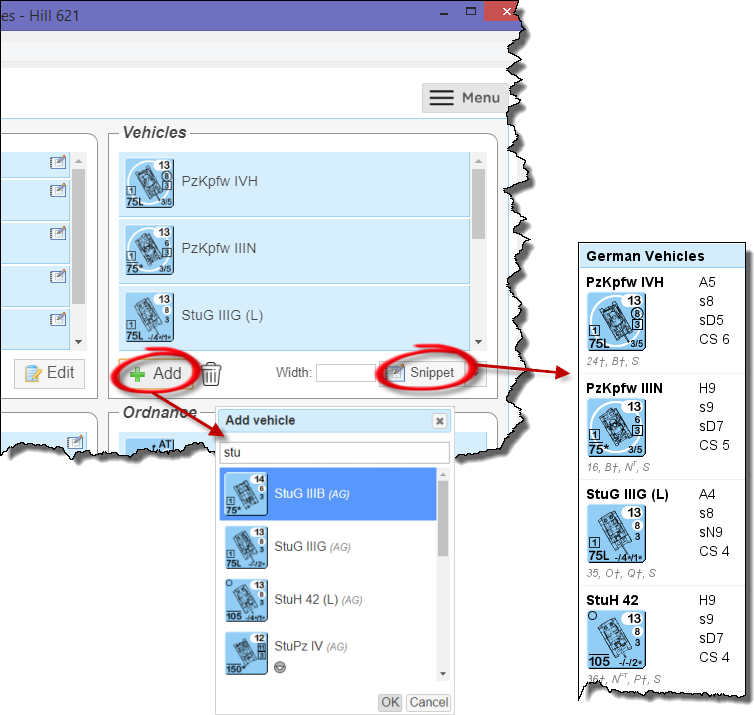
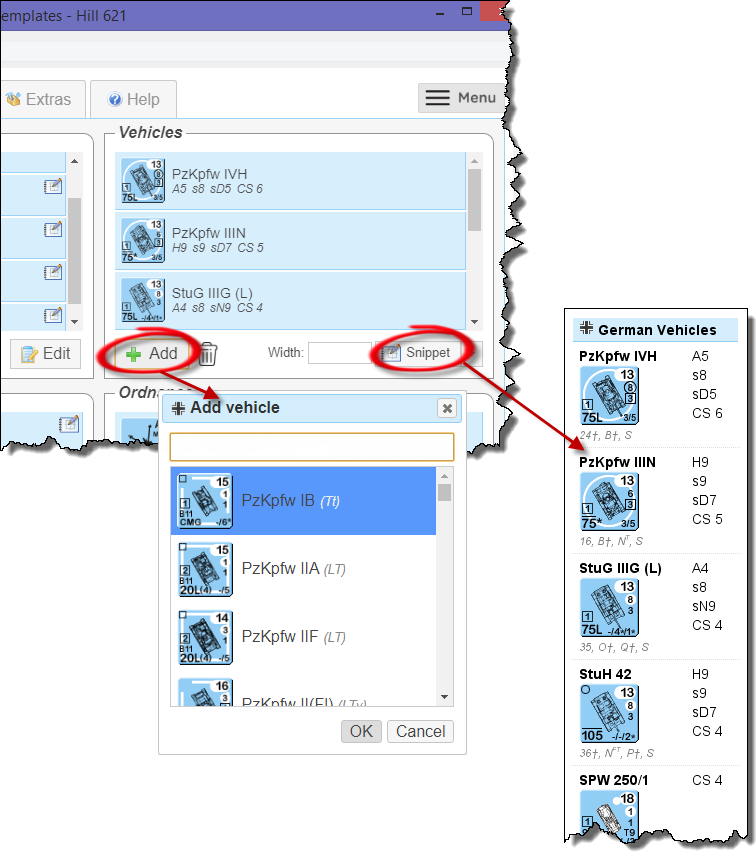
Updated the help.

diff --git a/vasl_templates/webapp/static/help/index.html b/vasl_templates/webapp/static/help/index.html
@@ -143,6 +143,7 @@ Once they're all in, click on the <em>Snippet</em> button to get a nicely format
 <p> <img src="images/ob_vehicles.png" class="preview" style="width:20em;float:right;">
 Adding each vehicle and ordnance for each player is just a matter of selecting them from a list, and the generated HTML snippet will produce a table of information for each one (see right). Very handy if you have a menagerie of armor and you're, say, looking for something that can fire Smoke.
 <p> The scenario date is taken into account when generating these tables e.g. APCR for the Pz IVH is A5<sup>2</sup>, but since the program knows the scenario is set in 1944, it just shows A5. Had the scenario been set in 1941, it wouldn't be shown at all.
+<p> Double-click on an entry to make changes to it e.g. because an SSR changes its capabilities, or you'd like to add a note.
 <br clear="all">
 
 <p> <img src="images/ob_setup.png" class="preview" style="width:15em;float:left;">
@@ -153,6 +154,11 @@ We can also add ad-hoc notes describing where and how units should setup.
 <p> <img src="images/pf.png" class="preview" style="width:15em;float:right;">
 Finally, if special support weapons such as PF and BAZ are in play, snippets are available with information for them, and as with vehicles/ordnance, they are date-aware and update themselves accordingly.
 
+<h2> Extra templates </h2>
+
+<p> <img src="images/extras-templates.png" class="preview" style="width:15em;float:right;">
+<p> Extra templates are also available to generate ad-hoc snippets e.g. to keep track of how many PF shots you have left, or to generate a shaded box that can be inserted behind the Turn Track to indicate an LV Hindrance.
+
 <h2> Configuring the program </h2>
 
 <h4> Showing VASL counter images in the UI </h4>
@@ -162,10 +168,7 @@ Finally, if special support weapons such as PF and BAZ are in play, snippets are
 <li> If you are running the Windows desktop application, open the <em>Server settings</em> dialog from the <em>File</em> menu and configure it there.
 <li> If you are running the web server directly, create a file called <tt>site.cfg</tt> in the <tt>$/vasl_templates/webapp/config/</tt> directory and configure it there (there is an example file you can rename and edit).
 </ul>
-<div class="info"> You should configure version 6.3.3, or 6.4.0 thru 6.4.2, of the VASL module. </div>
-
-<h4> Showing VASL counter images in OB snippets </h4>
-
+<div class="info"> You should configure version 6.3.3, or 6.4.0 thru 6.4.3, of the VASL module. </div>
 <p> Once you've configured the VASL module, if you want to also show VASL counter images in the OB snippets that you copy in the VASL scenario, turn this on in the <em>User settings</em> dialog from the main application menu.
 <div class="info"> If you turn this feature on, the program must be running every time you load the scenario into VASL. </div>
 
